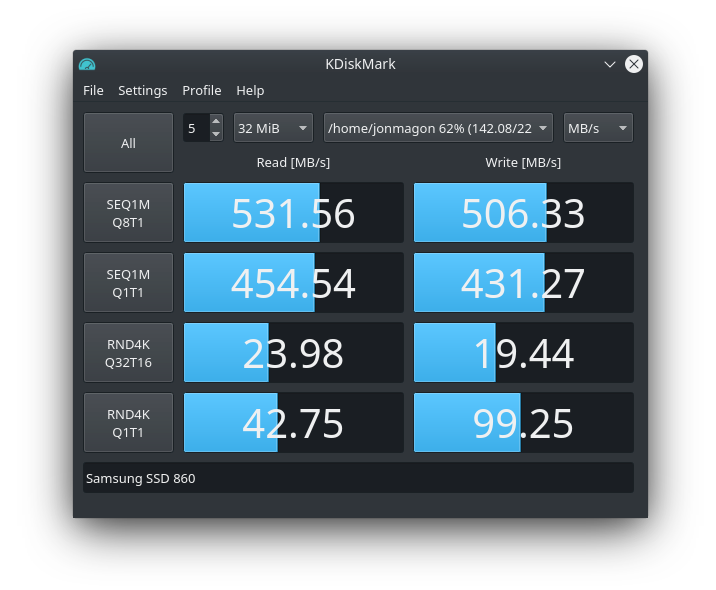
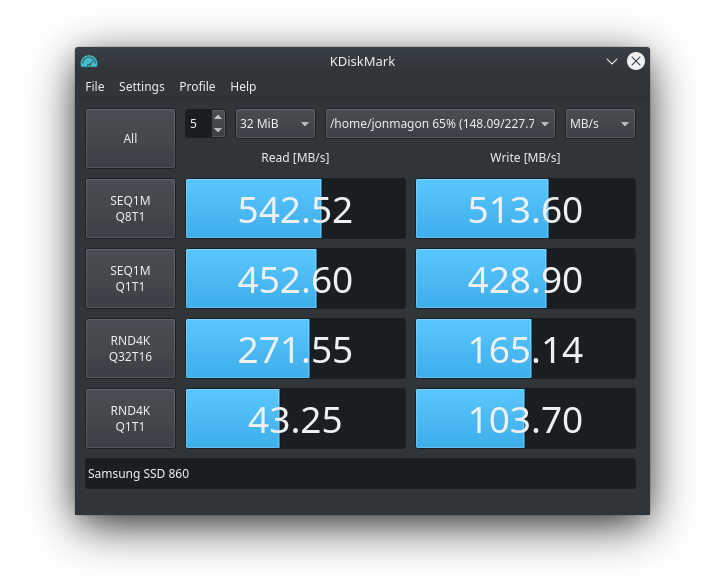
Update readme and screenshot

Changed region(s): [[0.0922, 0.0613, 0.9218, 0.8893], [0.1229, 0.7973, 0.2765, 0.8279]]

diff --git a/README.md b/README.md
@@ -17,27 +17,28 @@ KDiskMark is an HDD and SSD benchmark tool with a very friendly graphical user i
 
 ## Report Example
 ```
-                             KDiskMark: https://github.com/JonMagon/KDiskMark
+                      KDiskMark (1.6.0): https://github.com/JonMagon/KDiskMark
+                  Flexible I/O Tester (fio-3.16): https://github.com/axboe/fio
 -----------------------------------------------------------------------------
 * MB/s = 1,000,000 bytes/s [SATA/600 = 600,000,000 bytes/s]
 * KB = 1000 bytes, KiB = 1024 bytes
 
 [Read]
-Sequential 1 MiB (Q= 8, T= 1):   528.053 MB/s [    528.1 IOPS] < 14449.94 us>
-Sequential 1 MiB (Q= 1, T= 1):   453.257 MB/s [    453.3 IOPS] <  2193.73 us>
-    Random 4 KiB (Q=32, T=16):    25.059 MB/s [   6415.0 IOPS] <  4977.93 us>
-    Random 4 KiB (Q= 1, T= 1):    41.917 MB/s [  10730.9 IOPS] <    90.83 us>
+ Sequential 1 MiB (Q= 8, T= 1):   542.516 MB/s [    529.8 IOPS] < 14415.61 us>
+ Sequential 1 MiB (Q= 1, T= 1):   452.596 MB/s [    442.0 IOPS] <  2248.08 us>
+     Random 4 KiB (Q=32, T=16):   271.553 MB/s [  67889.0 IOPS] <  1955.57 us>
+     Random 4 KiB (Q= 1, T= 1):    43.252 MB/s [  10813.1 IOPS] <    90.34 us>
 
 [Write]
-Sequential 1 MiB (Q= 8, T= 1):   496.894 MB/s [    496.9 IOPS] < 15459.55 us>
-Sequential 1 MiB (Q= 1, T= 1):   424.402 MB/s [    424.4 IOPS] <  2337.63 us>
-    Random 4 KiB (Q=32, T=16):    20.581 MB/s [   5268.8 IOPS] <  6051.35 us>
-    Random 4 KiB (Q= 1, T= 1):   101.073 MB/s [  25874.9 IOPS] <    36.84 us>
+ Sequential 1 MiB (Q= 8, T= 1):   513.605 MB/s [    501.6 IOPS] < 15319.33 us>
+ Sequential 1 MiB (Q= 1, T= 1):   428.900 MB/s [    418.8 IOPS] <  2369.68 us>
+     Random 4 KiB (Q=32, T=16):   165.142 MB/s [  41286.6 IOPS] <  3091.38 us>
+     Random 4 KiB (Q= 1, T= 1):   103.696 MB/s [  25924.1 IOPS] <    36.71 us>
 
 Profile: Default
    Test: 32 MiB (x5) [Interval: 5 sec]
-   Date: 2020/07/05 13:58:27
-     OS: neon 18.04 [linux 5.3.0-62-generic]
+   Date: 2020/09/05 18:31:47
+     OS: neon 20.04 [linux 5.4.0-42-generic]
 ```
 
 ## Dependencies
